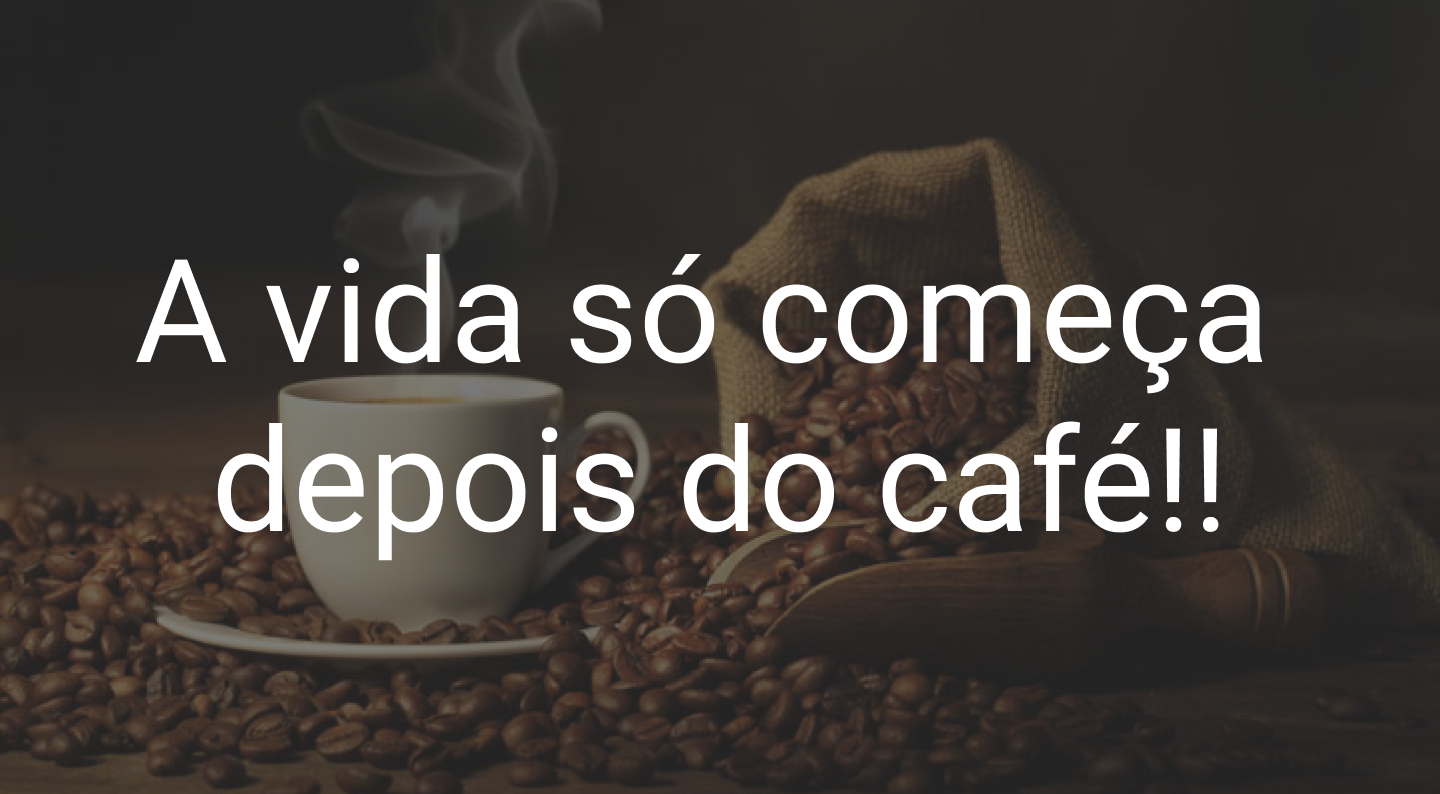
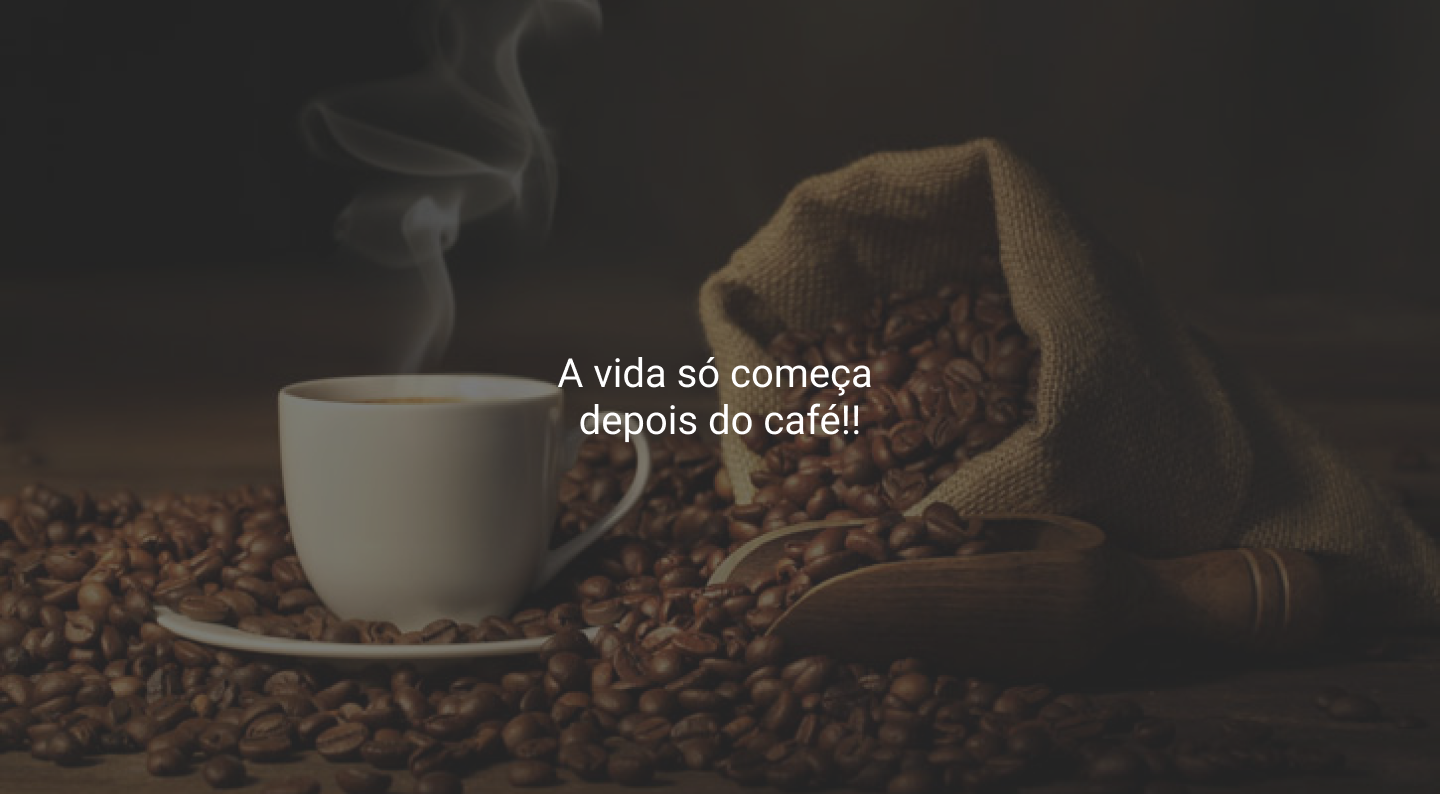
Atualizações

Changed region(s): [[0.125, 0.3023, 0.875, 0.7254], [0.0938, 0.3325, 0.1562, 0.4534]]

diff --git a/Css/sessaoContato.css b/Css/sessaoContato.css
@@ -7,19 +7,45 @@
     height: 100vh;
     display: flex;
     justify-content: center;
+    align-items: center;
     background-image: url(../img/café-fundo-contatos.png); 
+    filter: grayscale(90%);
     background-color: #CFCFCF;
     background-size: cover;
     background-position: right top;
 }
+.tituloSesaoContato{
+    width: 100%;
+    height: 75px;
+    display: flex;
+    align-items: center;
+    justify-content: center;
+
+}
+
+.txtContato{
+    display: flex;
+    align-items: center;
+    justify-content: center;
+    text-align: center;
+    font-size: 64px;
+    color: black;
+}
 
 #form{
     display: flex;
-    flex-grow: 1;
-    margin-left: 5rem;
+    width: 80%;
+    height: 80%;
     flex-direction: column;
-
+    background-color: #Fcfcfc;
+    border-radius: 10px 0 10px 0;
+    border: 10px double grey;
 }
+
+/* .form :nth-child(1) { order: 3;}
+.form :nth-child(2) { order: 1;}
+.form :nth-child(3) { order: 2;}
+.form :nth-child(4) { order: 4;} */
 
 #form #lblObs{
     font-family: 'Roboto';
@@ -27,13 +53,20 @@
     font-weight: 400;
     font-size: 48px;
     line-height: 56px;
-    color: #FFFFFF;
+    color: #000000;
+    padding-bottom: 10px;
+    margin-left: 5rem;
 }
 
 #form #txtObs{
     width: 1078px;
     height: 366px;
     background: rgba(196, 196, 196, 0.5);
+    margin-bottom: 20px;
+    font-size: 2rem;
+    margin-left: 5rem;
+    border: 10px inset;
+    resize: none;
 }
 
 #form #lblNome{
@@ -42,13 +75,18 @@
     font-weight: 400;
     font-size: 48px;
     line-height: 56px;
-    color: #FFFFFF;
+    color: #000000;
+    margin-left: 5rem;
 }
 
 #form #txtNome{
     width: 541px;
     height: 61px;
     background: rgba(196, 196, 196, 0.7);
+    font-size: 2rem;
+    margin-left: 5rem;
+    border: 10px inset;
+    
 }
 
 #form #lblEmail{
@@ -57,24 +95,45 @@
     font-weight: 400;
     font-size: 48px;
     line-height: 56px;
-    color: #FFFFFF;
+    color: #000000;
+    margin-left: 5rem;
 }
 
 #form #txtEmail{
     width: 541px;
     height: 61px;
     background: rgba(196, 196, 196, 0.7);
+    font-size: 2rem;
+    margin-left: 5rem;
+    border: 10px inset;
 }
 
 #divEmail{
+    display: flex;
     margin-bottom: 2rem;
+    margin-left: 5rem;
 }
 
 #divBtn{
     display: flex;
     align-items: center;
     justify-content: center;
+    margin-left: 5rem;
 }
+
+#divObs{
+    display: flex;
+    flex-direction: column;
+    margin-left: 5rem;
+}
+
+#divNome{
+    display: flex;
+    margin-top: 10px;
+    padding-bottom: 20px;
+    margin-left: 5rem;
+}
+
 #form #btnEnviar{
     font-family: 'Roboto';
     font-style: normal;
@@ -84,4 +143,5 @@
     color: #000000;
     background: rgba(196, 196, 196, 0.7);
     cursor: pointer;
+    margin-left: 5rem;
 }

diff --git a/index.html b/index.html
@@ -13,6 +13,7 @@
     <link rel="stylesheet" href="Css/sessaoDestaque.css">
     <link rel="stylesheet" href="Css/sessaoContato.css">
     <link rel="stylesheet" href="Css/menu-burguer.css">
+    <link rel="stylesheet" href="Css/footer.css">
     <script src="menu.js" defer></script>
     <title>Onepage_Coffee_Shop</title>
 </head>
@@ -183,12 +184,15 @@
     </section>
 
     <section class="contatos" id="contatos">
+
         <div id="form">
+
+            <div class="tituloSesaoContato">
+                <span class="txtContato">Sessão para Contato</span>
+            </div>
+            
             <form method="post" action="">
-                <div id="divObs">
-                    <label for="txtObs" id="lblObs">Observação:</label>
-                    <textarea name="txtObs" id="txtObs"></textarea>
-                </div>
+                
 
                 <div id="divNome">
                     <label for="txtNome" id="lblNome">Coloque aqui seu nome:</label>
@@ -199,13 +203,44 @@
                     <label for="txtEmail" id="lblEmail">Deixe aqui seu email para contato:</label>
                     <input type="text" name="txtEmail" id="txtEmail">
                 </div>
+
+                <div id="divObs">
+                    <label for="txtObs" id="lblObs">Observação:</label>
+                    <textarea name="txtObs" id="txtObs"></textarea>
+                </div>
+
                 <div id="divBtn">
                 <input type="submit" name="btnEnviar" id="btnEnviar" value="Enviar Observação"> 
                 </div>
             </form>
         </div>
     </section>
-
     </main>
+    <footer>
+        <div id="divFooter">
+            <div id="container-redes">
+                <div id="redes">
+                    <span id="txtRedes">Redes Sociais</span>
+                </div>
+                <div id="icons-redes">
+                    <img src="img/facebook.png" alt="">
+                    <img src="img/twiter.png" alt="">
+                    <img src="img/instagram.png" alt="">
+                </div>
+            </div>
+
+            <div id="container-pagamento">
+                <div class="pagamento">
+                    <span class="txtPagamento">Formas de Pagamento</span>
+                </div>
+                <div class="icons-pagamento">
+                    <img src="img/visa.png" alt="">
+                    <img src="img/masterCard.png" alt="">
+                    <img src="img/boleto.png" alt="">
+                </div>
+            </div>
+
+        </div>
+    </footer>
 </body>
 </html>

diff --git a/Css/menu-burguer.css b/Css/menu-burguer.css
@@ -7,7 +7,7 @@
     height: 10px;
     background-color: #fff;
     margin: 8px;
-    margin-left: 15rem;
+    margin-left: 2rem;
 }
 
 .conteudoMenuBurguer{
@@ -15,7 +15,7 @@
     align-items: center;
     justify-content: center;
     width: 200px;
-    height: 800px;
+    height: 1000px;
     background-color: rgba(196, 196, 196, 0.5);
     position: flex;
     transform: translate(-100%);

diff --git a/Css/footer.css b/Css/footer.css
@@ -1,0 +1,16 @@
+footer{
+    display: flex;
+    width: 100%;
+    height: 250px;
+}
+
+footer #divFooter{
+    display: flex;
+    flex-grow: 1;
+    background: #DCB395;
+}
+
+footer #container-redes{
+    width: 205px;
+    height: 97px;
+}

diff --git a/Css/main.css b/Css/main.css
@@ -21,7 +21,7 @@ main{
     font-family: 'Roboto';
     font-style: normal;
     font-weight: 400;
-    font-size: 64px;
+    font-size: 36px;
     line-height: 75px;
     color: #000000;
     margin-left: 2rem;

diff --git a/Css/header.css b/Css/header.css
@@ -14,7 +14,7 @@ header {
     font-family: 'Risque';
     font-style: normal;
     font-weight: 400;
-    font-size: 3em;
+    font-size: 64px;
     line-height: 55px;
     color: rgba(255, 0, 0, 0.58);
 

diff --git a/Css/sessaoDesconto.css b/Css/sessaoDesconto.css
@@ -81,6 +81,8 @@
 
 .containerDescricaoCardDesconto .vermelho{
     color: red;
+    text-decoration: line-through #000;
+    font-size: 1rem;
 }
 
 .containerDescricaoCardDesconto .verde{
